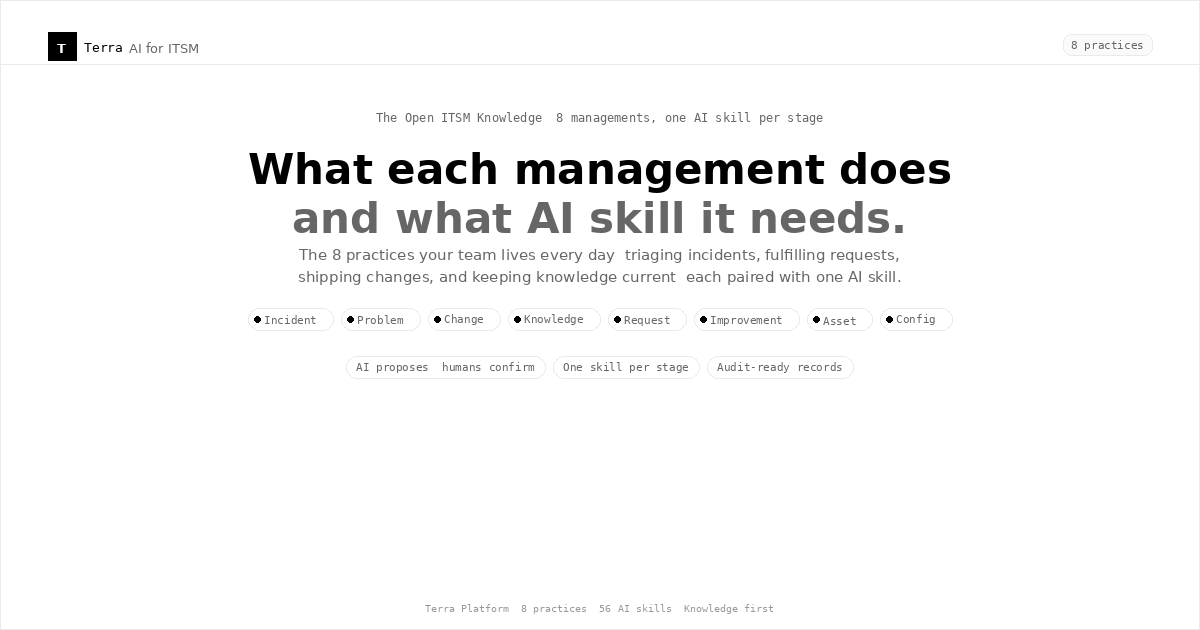
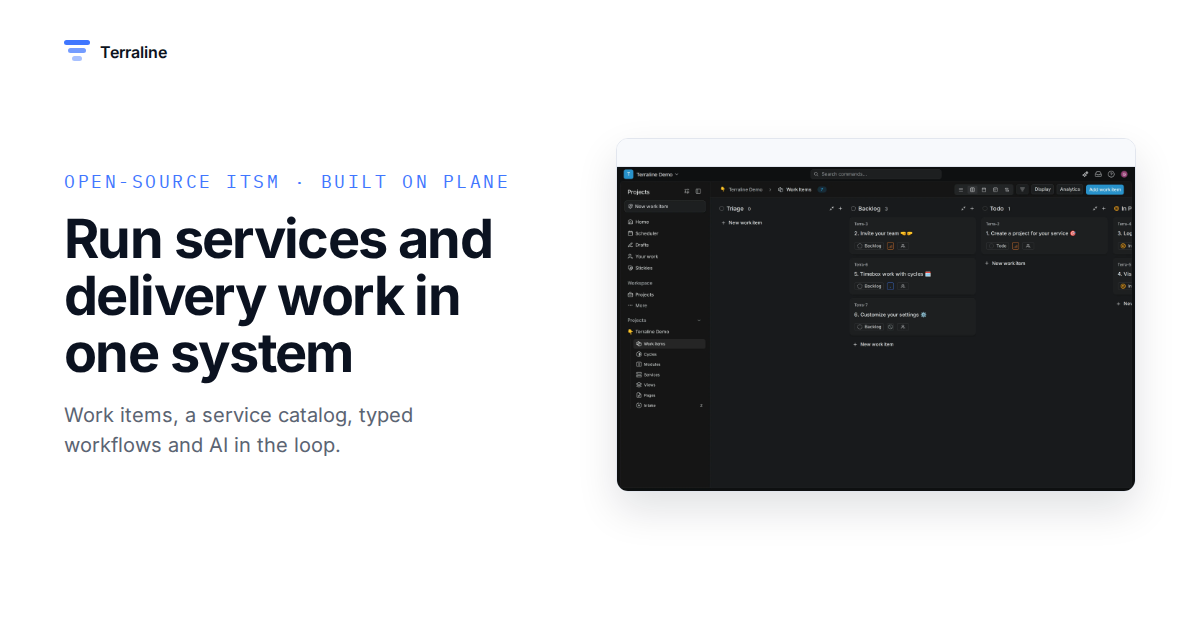
feat: product meta and regenerated OG image

diff --git a/index.html b/index.html
@@ -6,19 +6,19 @@
     <meta name="viewport" content="width=device-width, initial-scale=1.0" />
     <link rel="preconnect" href="https://fonts.googleapis.com" />
     <link rel="preconnect" href="https://fonts.gstatic.com" crossorigin />
-    <title>Terraline — AI for ITSM</title>
-    <meta name="description" content="Terraline — The Open ITSM Knowledge: 8 managements, one AI skill per stage. What each management does and what AI skill it needs." />
+    <title>Terraline — Open-source IT service management platform</title>
+    <meta name="description" content="Terraline is open-source IT service management built on Plane: work items, a service catalog, typed workflows and AI in the loop — self-hosted, traceable, real-time." />
     <meta property="og:type" content="website" />
-    <meta property="og:title" content="Terraline — AI for ITSM" />
-    <meta property="og:description" content="The Open ITSM Knowledge — 8 managements, one AI skill per stage. What each management does and what AI skill it needs." />
+    <meta property="og:title" content="Terraline — Open-source IT service management" />
+    <meta property="og:description" content="Work items, a service catalog, typed workflows and AI in the loop. Self-hosted, traceable, real-time." />
     <meta property="og:url" content="https://terraline.space/" />
     <meta property="og:image" content="/og-image.png" />
     <meta property="og:image:width" content="1200" />
     <meta property="og:image:height" content="630" />
-    <meta property="og:image:alt" content="Terraline — AI for ITSM: What each management does and what AI skill it needs" />
+    <meta property="og:image:alt" content="Terraline — open-source IT service management built on Plane" />
     <meta name="twitter:card" content="summary_large_image" />
-    <meta name="twitter:title" content="Terraline — AI for ITSM" />
-    <meta name="twitter:description" content="The Open ITSM Knowledge — 8 managements, one AI skill per stage." />
+    <meta name="twitter:title" content="Terraline — Open-source IT service management" />
+    <meta name="twitter:description" content="Work items, a service catalog, typed workflows and AI in the loop." />
     <meta name="twitter:image" content="/og-image.png" />
     <link rel="canonical" href="https://terraline.space/" />
   </head>

diff --git a/public/og-template.html b/public/og-template.html
@@ -1,0 +1,44 @@
+<!doctype html>
+<html lang="en">
+  <head>
+    <meta charset="UTF-8" />
+    <link rel="preconnect" href="https://fonts.googleapis.com" />
+    <link rel="preconnect" href="https://fonts.gstatic.com" crossorigin />
+    <link
+      href="https://fonts.googleapis.com/css2?family=IBM+Plex+Mono:wght@400;500;600&family=Inter:wght@400;500;600;700&display=swap"
+      rel="stylesheet"
+    />
+    <style>
+      * { margin: 0; box-sizing: border-box; }
+      body {
+        width: 1200px; height: 630px; display: flex; align-items: center; gap: 56px;
+        padding: 64px; font-family: Inter, system-ui, sans-serif; background: #ffffff; color: #0b1220;
+        position: relative;
+      }
+      .copy { flex: 1; }
+      .eyebrow { font-family: 'IBM Plex Mono', monospace; font-size: 18px; letter-spacing: 0.14em; text-transform: uppercase; color: #3f76ff; }
+      h1 { font-size: 54px; line-height: 1.05; letter-spacing: -0.03em; margin-top: 18px; }
+      p { font-size: 20px; line-height: 1.5; color: #5b6472; margin-top: 18px; max-width: 30ch; }
+      .shot { width: 520px; border: 1px solid #e2e6ee; border-radius: 12px; overflow: hidden; box-shadow: 0 18px 40px rgba(11,18,32,0.12); }
+      .bar { height: 28px; background: #f7f9fc; border-bottom: 1px solid #e2e6ee; }
+      .shot img { display: block; width: 100%; }
+      .brand { position: absolute; top: 40px; left: 64px; display: flex; align-items: center; gap: 10px; font-weight: 600; }
+      .bars span { display: block; height: 5px; border-radius: 3px; background: #3f76ff; margin-bottom: 3px; }
+      .bars span:nth-child(1) { width: 26px; }
+      .bars span:nth-child(2) { width: 18px; margin-left: 4px; opacity: 0.72; }
+      .bars span:nth-child(3) { width: 10px; margin-left: 8px; opacity: 0.45; }
+    </style>
+  </head>
+  <body>
+    <div class="brand"><div class="bars"><span></span><span></span><span></span></div>Terraline</div>
+    <div class="copy">
+      <div class="eyebrow">Open-source ITSM · built on Plane</div>
+      <h1>Run services and delivery work in one system</h1>
+      <p>Work items, a service catalog, typed workflows and AI in the loop.</p>
+    </div>
+    <div class="shot">
+      <div class="bar"></div>
+      <img src="./screenshots/work-items-list.webp" alt="" />
+    </div>
+  </body>
+</html>
